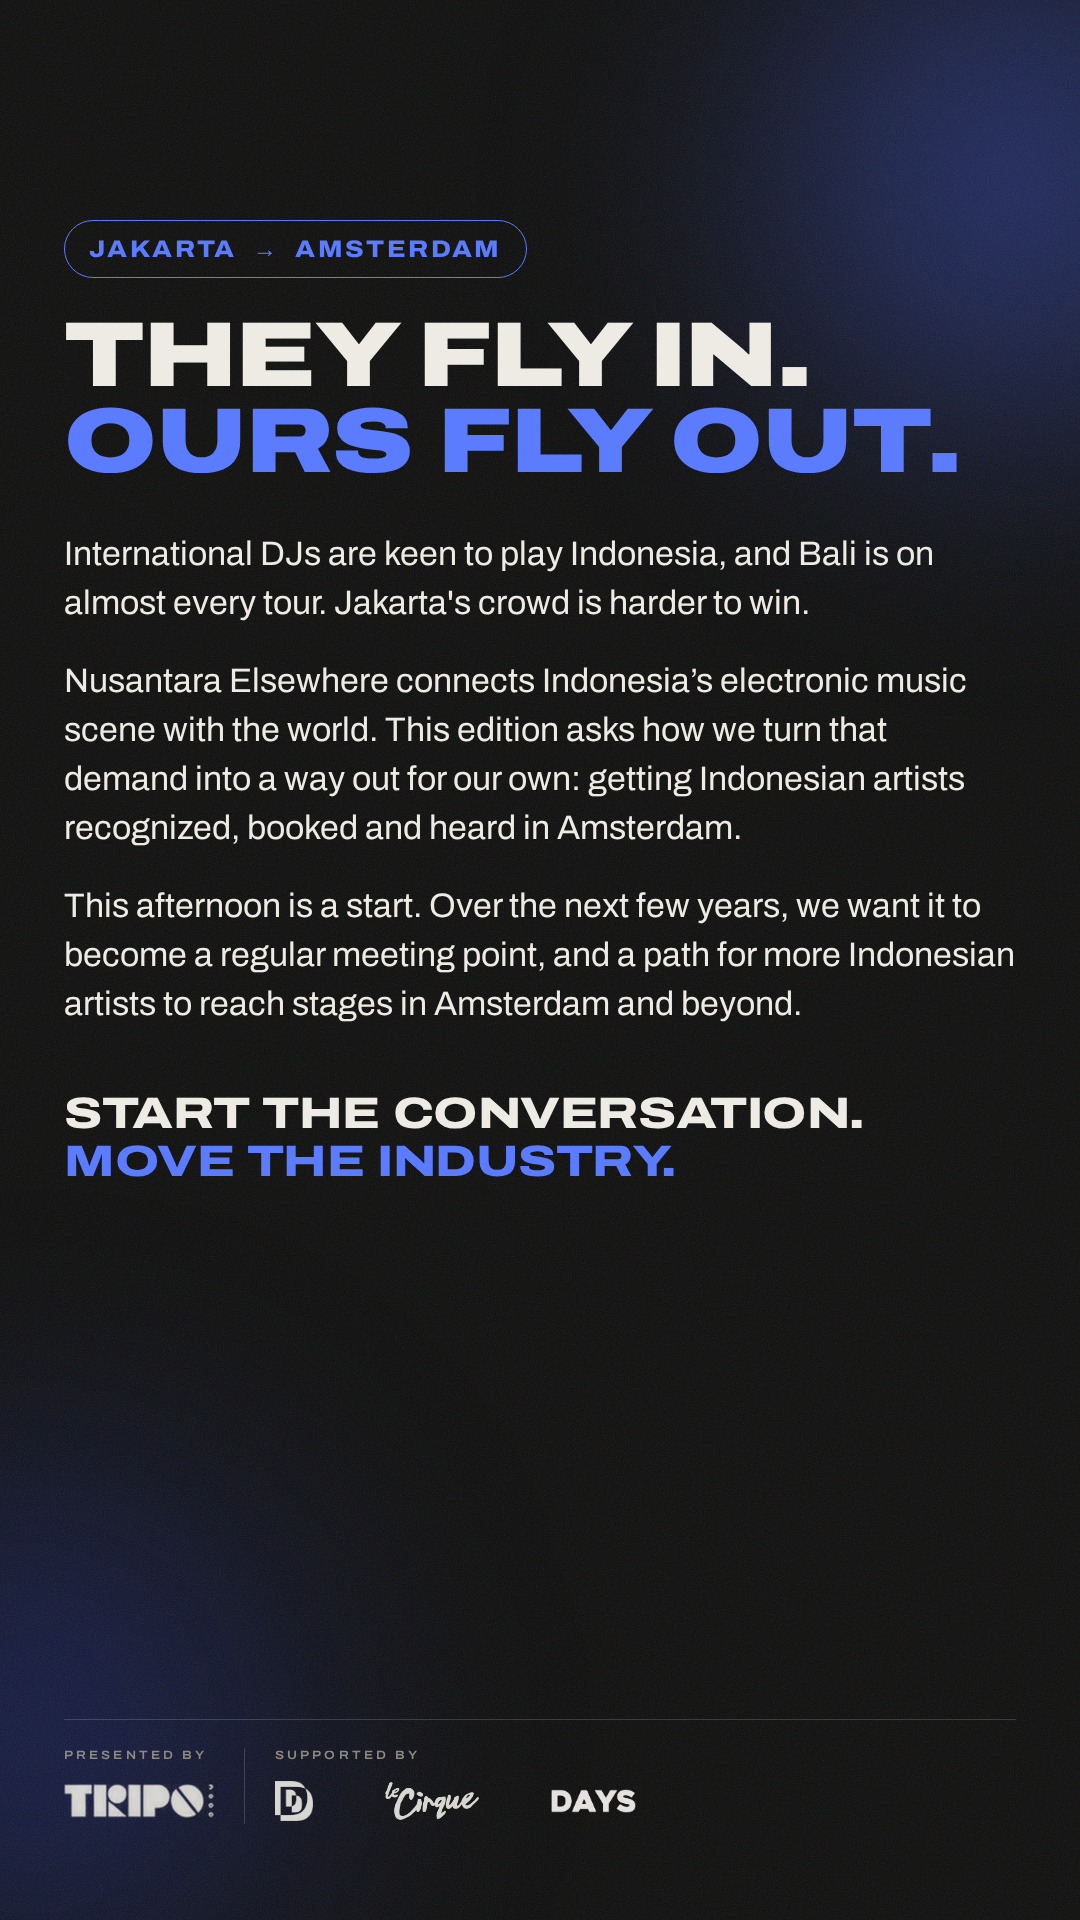
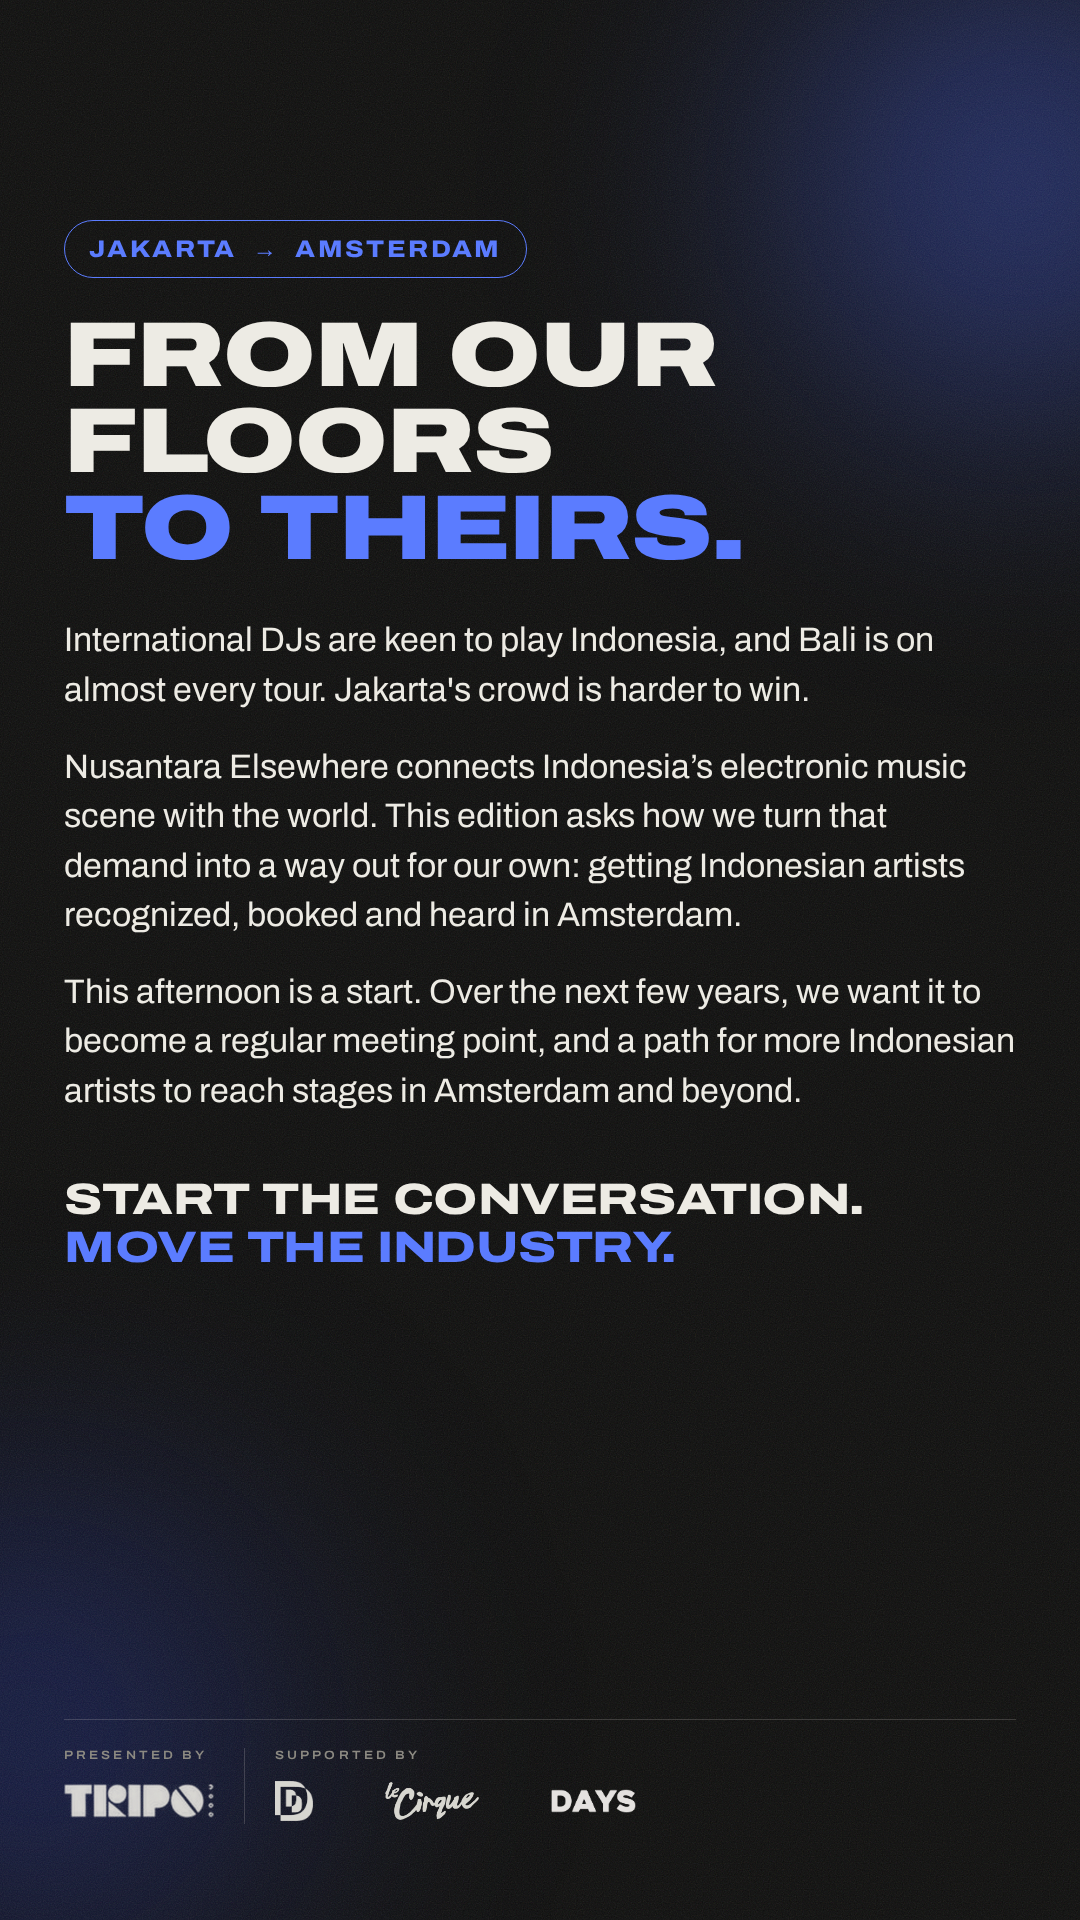
Why page headline: From our floors to theirs.
Claude-Session: https://claude.ai/code/session_01Sc5gF2HRFqjLpMQDrx7aqZ

Changed region(s): [[0.0611, 0.1562, 0.9472, 0.6562]]

diff --git a/events/ade-community-talks-2026/rebrand/03-scene-amsterdam-nusantara.html b/events/ade-community-talks-2026/rebrand/03-scene-amsterdam-nusantara.html
@@ -14,7 +14,7 @@
 <div class="page">
 
   <div class="bridge" style="margin-top:0">Jakarta <i>→</i> Amsterdam</div>
-  <div class="display" style="font-size:92px;line-height:.94;margin-top:34px;white-space:nowrap">They fly in.<br><em>Ours fly out.</em></div>
+  <div class="display" style="font-size:92px;line-height:.94;margin-top:34px;white-space:nowrap">From our<br>floors<br><em>to theirs.</em></div>
 
   <div class="body" style="margin-top:44px">International DJs are keen to play Indonesia, and Bali is on almost every tour. Jakarta's crowd is harder to win.</div>
   <div class="body" style="margin-top:28px">Nusantara Elsewhere connects Indonesia’s electronic music scene with the world. This edition asks how we turn that demand into a way out for our own: getting Indonesian artists recognized, booked and heard in Amsterdam.</div>
